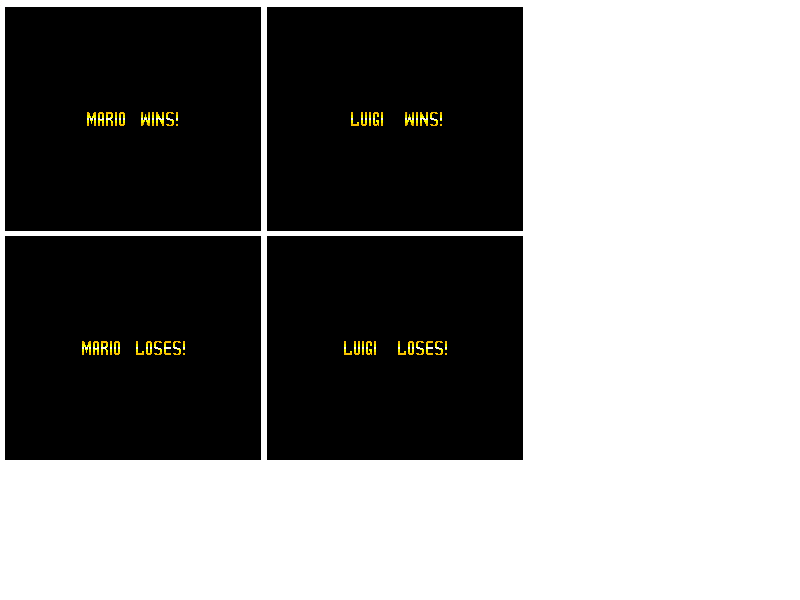
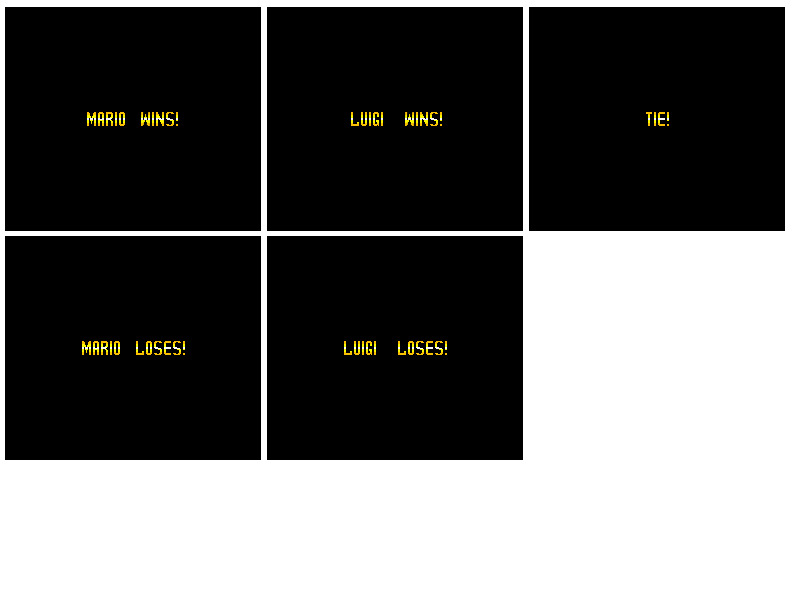
added winer and loser images for death state if multiplayer is active.

Changed region(s): [[0.6562, 0.0, 1.0, 0.39]]

diff --git a/src/Game/GameStates/DeathState.java b/src/Game/GameStates/DeathState.java
@@ -5,35 +5,53 @@ import java.awt.Graphics;
 
 import Display.UI.UIManager;
 import Display.UI.UIStringButton;
+import Game.Entities.DynamicEntities.Mario;
+import Game.Entities.DynamicEntities.Player;
 import Main.Handler;
 import Resources.Images;
 
 public class DeathState extends State {
 
-    private UIManager uiManager;
+	private UIManager uiManager;
 
-    public DeathState(Handler handler) {
-        super(handler);
-        uiManager = new UIManager(handler);
-        handler.getMouseManager().setUimanager(uiManager);
+	public DeathState(Handler handler) {
+		super(handler);
+		uiManager = new UIManager(handler);
+		handler.getMouseManager().setUimanager(uiManager);
 
-        uiManager.addObjects(new UIStringButton(340, (300+(64+16))+(64+16), 128, 64, "Title", () -> {
-            handler.getMouseManager().setUimanager(null);
-            handler.setIsInMap(false);
-            State.setState(handler.getGame().menuState);
-        },handler,Color.WHITE));
+		uiManager.addObjects(new UIStringButton(340, (300+(64+16))+(64+16), 128, 64, "Title", () -> {
+			handler.getMouseManager().setUimanager(null);
+			handler.setIsInMap(false);
+			State.setState(handler.getGame().menuState);
+		},handler,Color.WHITE));
 
-    }
+	}
 
-    @Override
-    public void tick() {
-        handler.getMouseManager().setUimanager(uiManager);
-        uiManager.tick();
-    }
+	@Override
+	public void tick() {
+		handler.getMouseManager().setUimanager(uiManager);
+		uiManager.tick();
+	}
 
-    @Override
-    public void render(Graphics g) {
-        g.drawImage(Images.gameOver,0,0,handler.getWidth(),handler.getHeight(),null);
-        uiManager.Render(g);
-    }
+	@Override
+	public void render(Graphics g) {
+		if(handler.isMultiPlayer() == true) {
+			if(Player.marioCoins>Player.luigiCoins) {
+				g.drawImage(Images.marioWins,0,0,handler.getWidth(),handler.getHeight(),null);
+				uiManager.Render(g);
+			}
+			if (Player.luigiCoins>Player.marioCoins){
+				g.drawImage(Images.luigiWins,0,0,handler.getWidth(),handler.getHeight(),null);
+				uiManager.Render(g);
+			}
+			if(Player.luigiCoins==Player.marioCoins) {
+				g.drawImage(Images.gameOver,0,0,handler.getWidth(),handler.getHeight(),null);
+				uiManager.Render(g);	
+			}
+		}
+		else {
+			g.drawImage(Images.gameOver,0,0,handler.getWidth(),handler.getHeight(),null);
+			uiManager.Render(g);	
+		}
+	}
 }

diff --git a/src/Game/Entities/DynamicEntities/Player.java b/src/Game/Entities/DynamicEntities/Player.java
@@ -9,6 +9,7 @@ import Game.Entities.StaticEntities.BaseStaticEntity;
 import Game.Entities.StaticEntities.BoundBlock;
 import Game.Entities.StaticEntities.FlowerBlock;
 import Game.GameStates.DeathState;
+import Game.GameStates.GameState;
 import Game.GameStates.State;
 import Main.Handler;
 import Resources.Animation;
@@ -70,10 +71,6 @@ public class Player extends BaseDynamicEntity {
 				playerBigRightRunAnimation.tick();
 			}
 		}
-		if(handler.isMultiPlayer() == true && State.getState() instanceof DeathState) {
-			 marioCoins = 0;
-			 luigiCoins = 0;
-		}
 	}
 
 	private void checkItemCollision() {
@@ -104,6 +101,7 @@ public class Player extends BaseDynamicEntity {
 				}	
 			}
 		}
+
 	}
 
 
@@ -318,21 +316,4 @@ public class Player extends BaseDynamicEntity {
 	public double getVelY() {
 		return velY;
 	}
-
-	public static int getMarioCoins() {
-		return marioCoins;
-	}
-
-	public void setMarioCoins(int marioCoins) {
-		this.marioCoins = marioCoins;
-	}
-
-	public static int getLuigiCoins() {
-		return luigiCoins;
-	}
-
-	public void setLuigiCoins(int luigiCoins) {
-		this.luigiCoins = luigiCoins;
-	}
-
 }

diff --git a/src/Main/GameSetUp.java b/src/Main/GameSetUp.java
@@ -266,15 +266,18 @@ public class GameSetUp implements Runnable {
         	Font font = new Font ("SansSerif", Font.PLAIN, 24);
     		g3.setFont(font);
     		g3.setColor(Color.RED);
-    		g3.drawString("Mario's Coins = " + Player.getMarioCoins(), 10, 30);
+    		g3.drawString("Mario's Coins = " + Player.marioCoins, 10, 30);
     		g3.setColor(Color.GREEN);
-    		g3.drawString("Luigi's Coins = " + Player.getLuigiCoins(), 530, 30);
+    		g3.drawString("Luigi's Coins = " + Player.luigiCoins, 530, 30);
         }
         
         if(handler.isMultiPlayer() == true && State.getState() instanceof  MenuState) {
         	g3.clearRect(0, 0, handler.width, handler.height);
         }
-
+		if(handler.isMultiPlayer() == true && !(State.getState() instanceof GameState) && !(State.getState() instanceof DeathState)) {
+		 Player.marioCoins = 0;
+		 Player.luigiCoins = 0;
+	    }
         //End Drawing!
         bs2.show();
         g3.dispose();

diff --git a/src/Game/GameStates/GameState.java b/src/Game/GameStates/GameState.java
@@ -62,9 +62,9 @@ public class GameState extends State {
 			Font font = new Font ("SansSerif", Font.PLAIN, 24);
 			g2.setFont(font);
 			g2.setColor(Color.RED);
-			g2.drawString("Mario's Coins = " + Player.getMarioCoins(), 10, 30);
+			g2.drawString("Mario's Coins = " + Player.marioCoins, 10, 30);
 			g2.setColor(Color.GREEN);
-			g2.drawString("Luigi's Coins = " + Player.getLuigiCoins(), 530, 30);
+			g2.drawString("Luigi's Coins = " + Player.luigiCoins, 530, 30);
 		}
 	}
 
